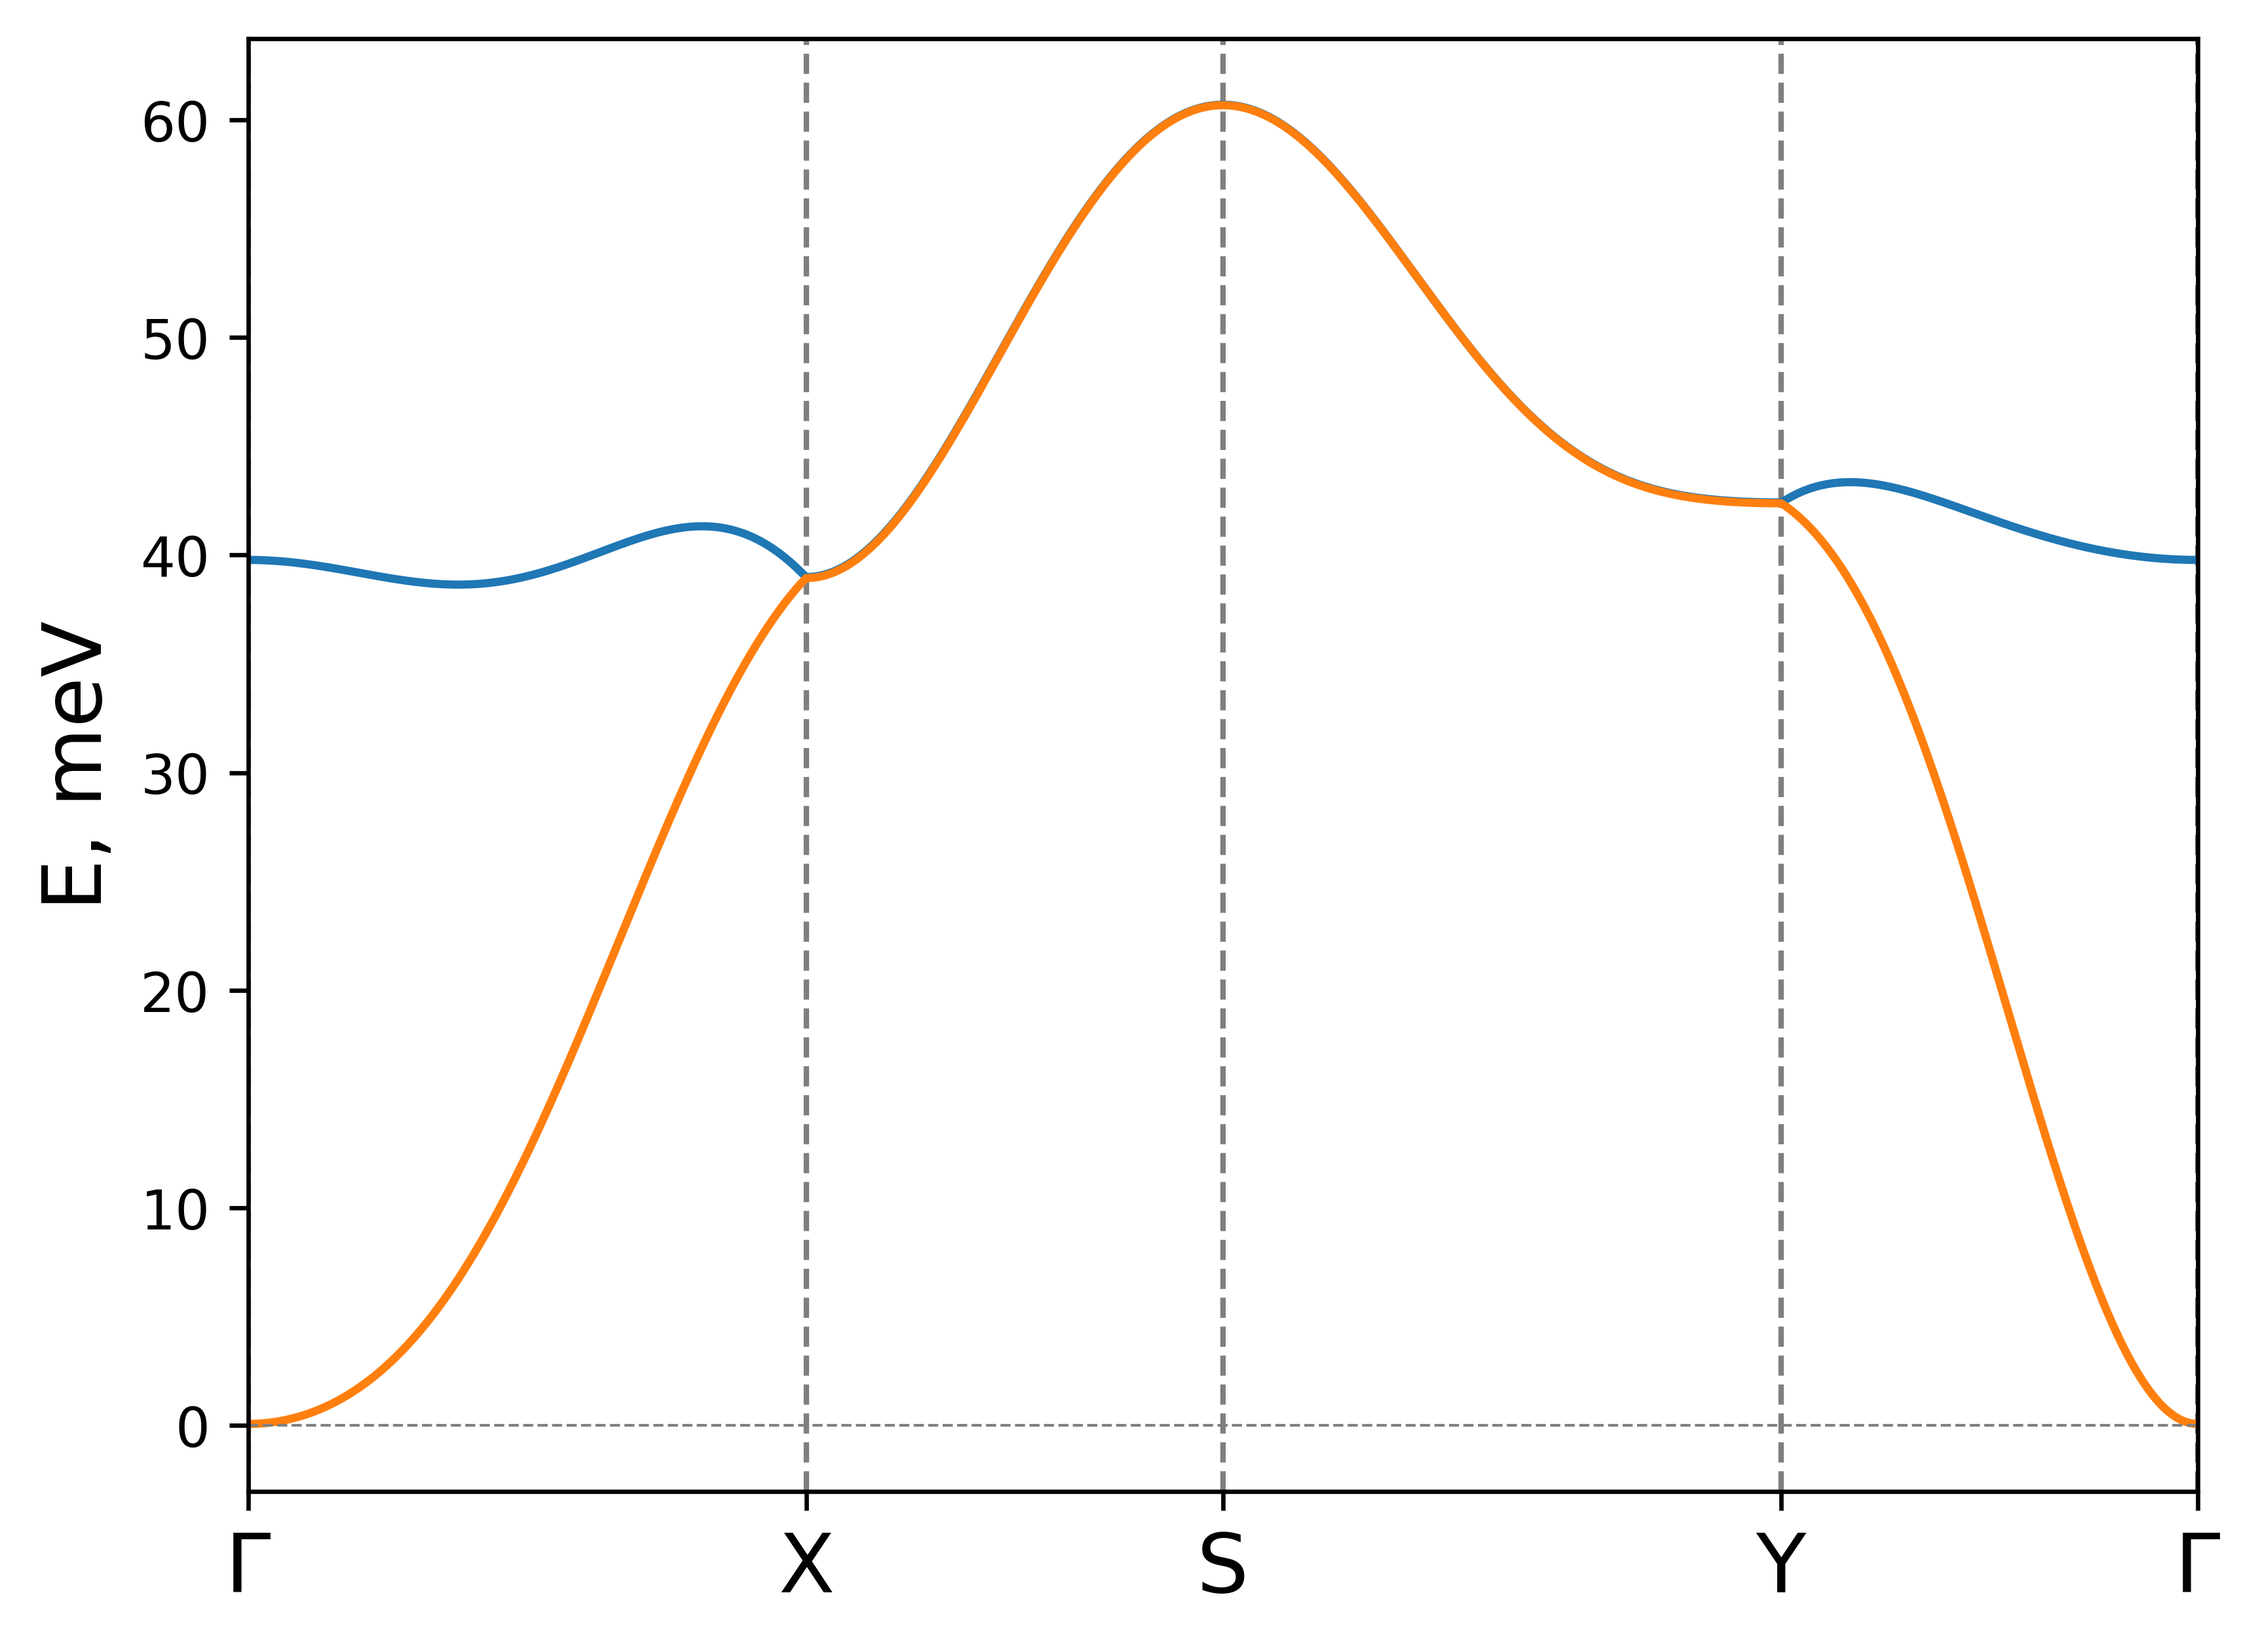
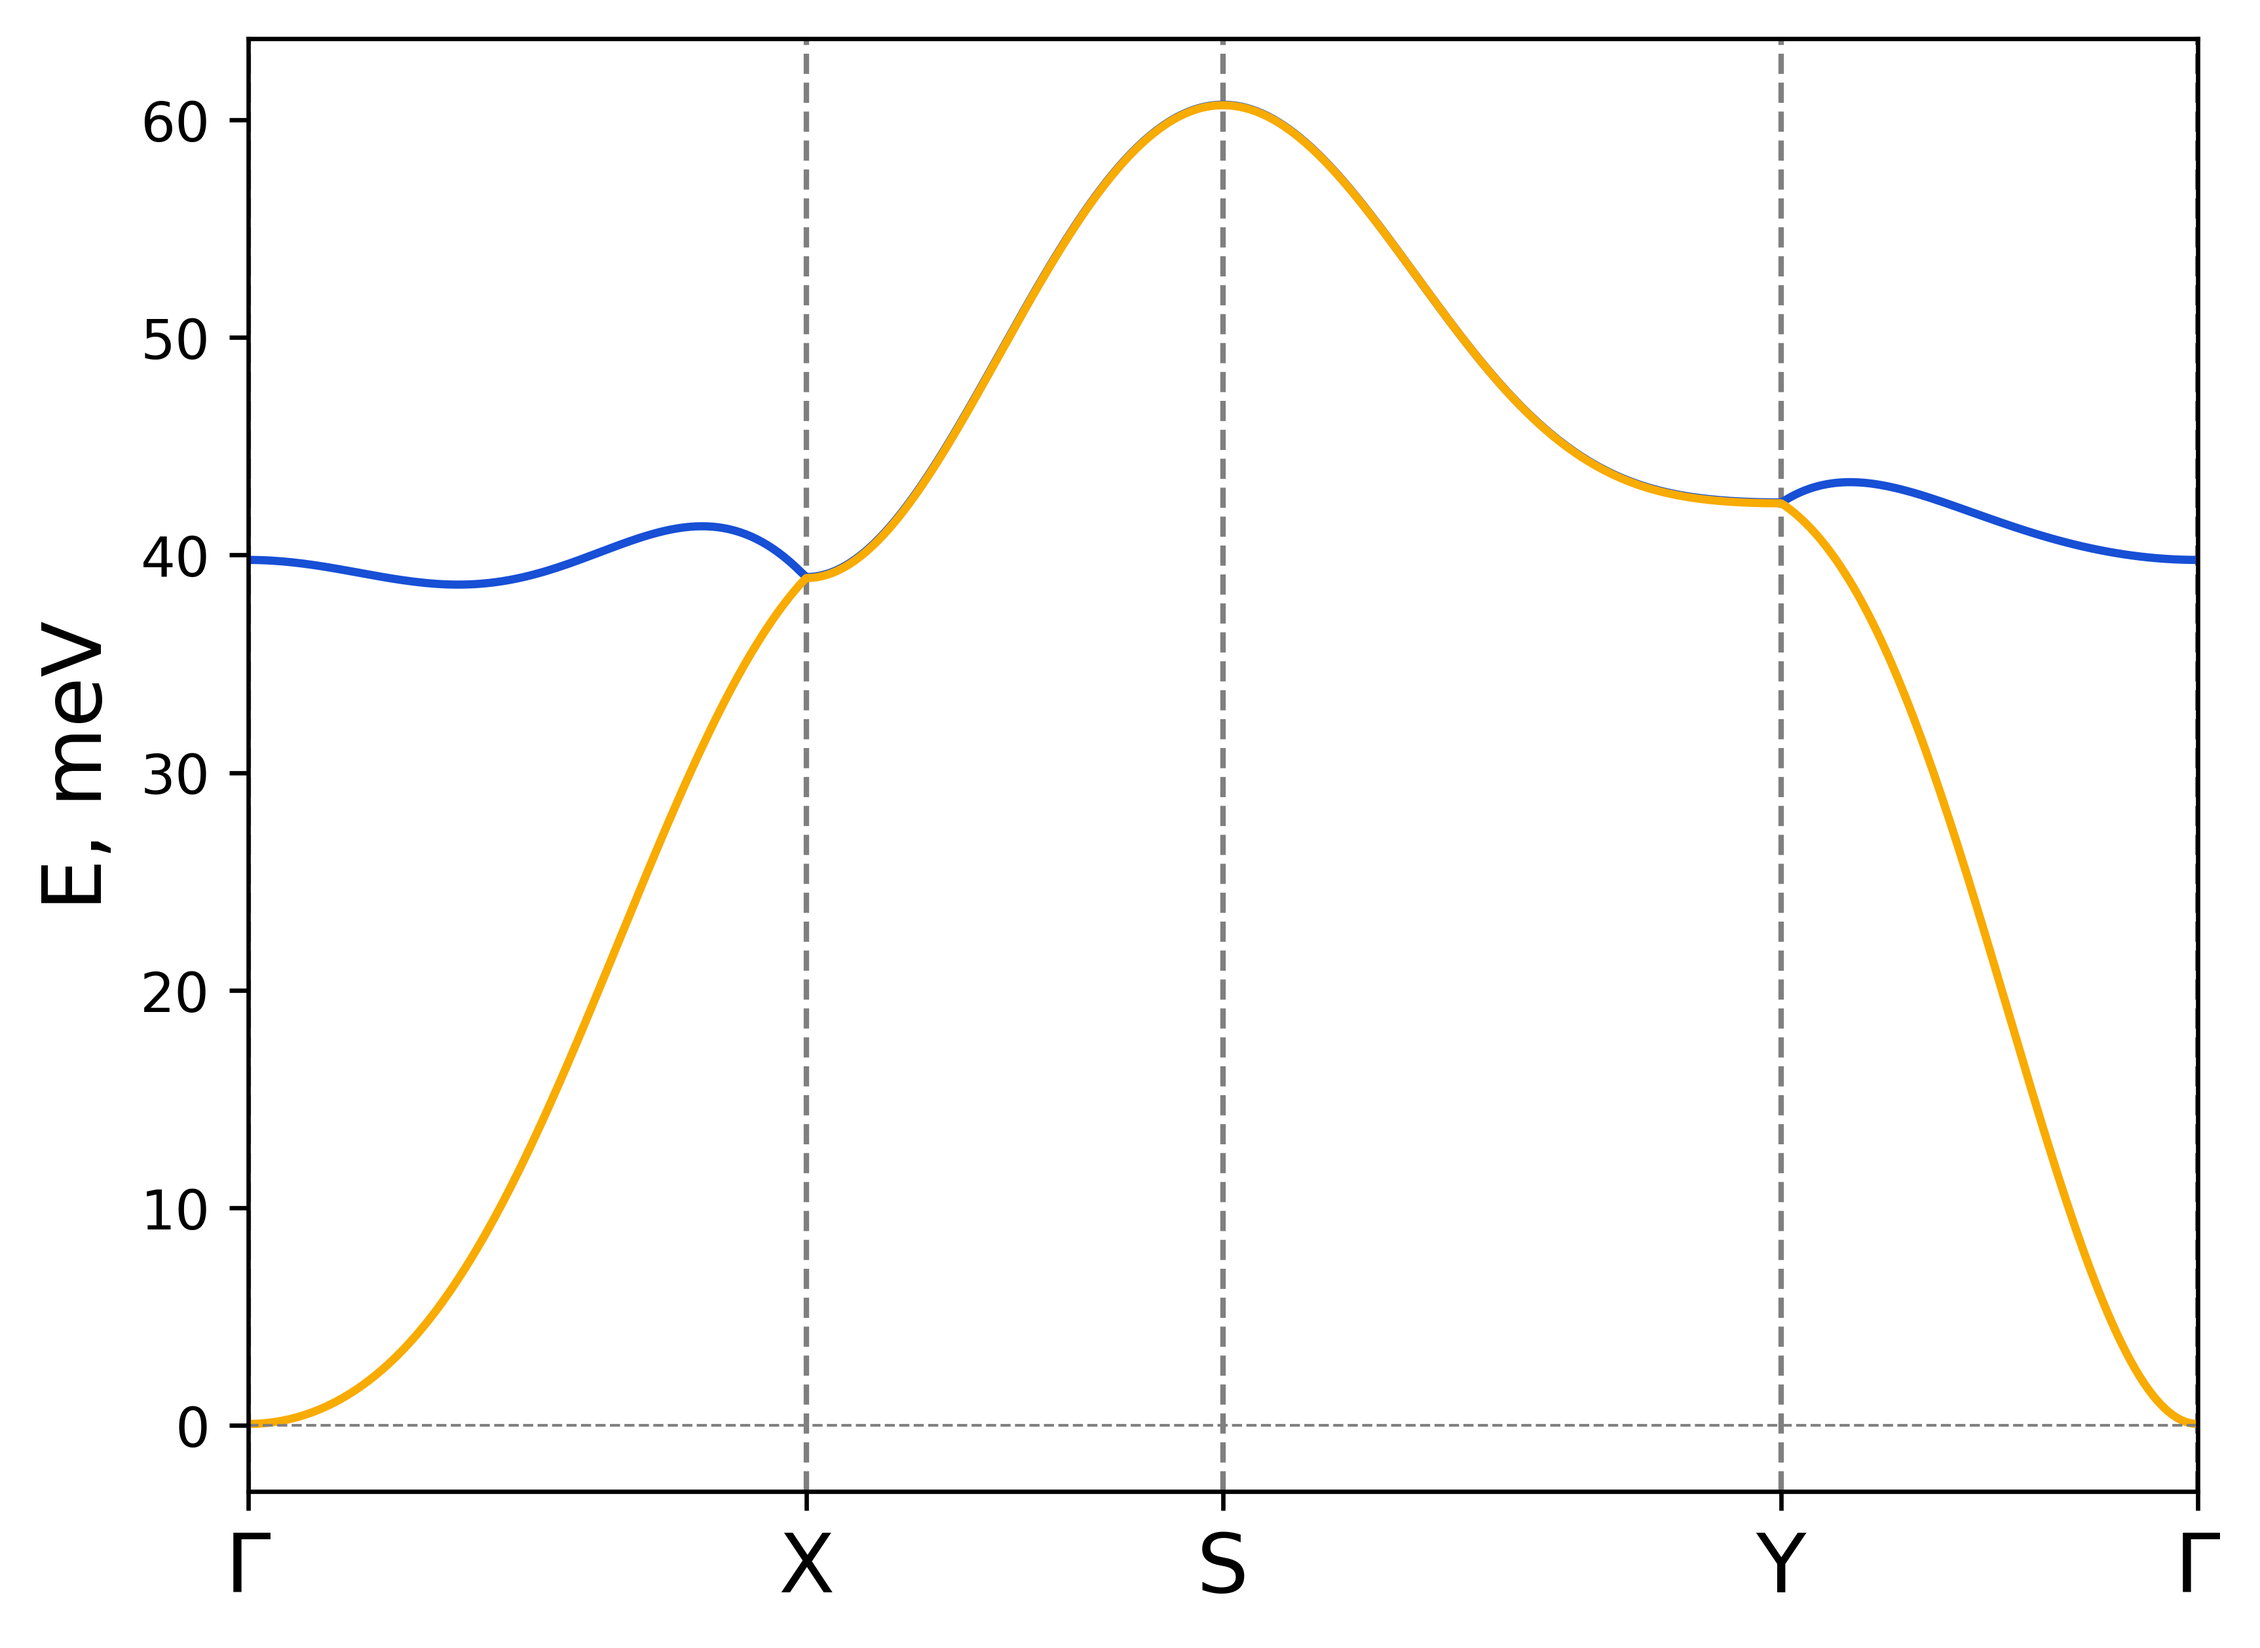
Add custom hs k-pointsto the magnon script

diff --git a/radtools/score/plot_tb2j_magnons.py b/radtools/score/plot_tb2j_magnons.py
@@ -1,6 +1,6 @@
 # RAD-tools - program for spin Hamiltonian and magnons.
 # Copyright (C) 2022-2023  Andrey Rybakov
-# 
+#
 # e-mail: anry@uv.es, web: adrybakov.com
 #
 # This program is free software: you can redistribute it and/or modify
@@ -39,6 +39,7 @@ def manager(
     output_name="magnon_dispersion",
     spiral_vector=None,
     rotation_axis=None,
+    k_points=None,
     k_path=None,
     form_model=False,
     R_vector=None,
@@ -72,7 +73,7 @@ def manager(
         Spin of the atoms in the model.
 
         For each atom, which has at least one bond connected to it is necessary to specify
-        spin vector. The spin vector is specified in the form of atom`s name followed by
+        spin vector. The spin vector is specified in the form of atom's name followed by
         three numbers, separated by spaces.
         The numbers represent the x, y, and z components of the spin vector.
 
@@ -103,6 +104,14 @@ def manager(
         Console argument: ``-ra`` / ``--rotation-axis``
 
         Metavar: ("n_x", "n_y", "n_z")
+    k_points : list of str, optional
+        Additional high-symmetry k-points.
+
+        Coordinates are relative to the reciprocal cell.
+
+        Console argument: ``-kps`` / ``--k-points``
+
+        Metavar: "name label xrel yrel zrel ..."
     k_path : str, optional
         Path in reciprocal space for the magnon dispersion.
 
@@ -220,6 +229,17 @@ def manager(
 
     # Get k points of the spinham
     kp = spinham.kpoints
+
+    # Add additional points
+    if k_points is not None:
+        for i in range(len(k_points) // 5):
+            point_name = k_points[5 * i]
+            point_label = k_points[5 * i + 1]
+            point_coordinates = list(map(float, k_points[5 * i + 2 : 5 * i + 5]))
+            kp.add_hs_point(
+                name=point_name, coordinates=point_coordinates, label=point_label
+            )
+
     # Set custom k path
     if k_path is not None:
         kp.path = k_path
@@ -279,8 +299,11 @@ def manager(
         lw=1,
         ls="dashed",
     )
+    colors = ["#174FD5", "#F8AB00", "#0CE1A2", "#FF003C", "#46EC00", "#9823C9"]
+    i = 0
     for omega in omegas:
-        ax.plot(kp.flatten_points(), omega)
+        ax.plot(kp.flatten_points(), omega, color=colors[i % len(colors)])
+        i += 1
 
     ax.set_xlim(kp.flatten_points()[0], kp.flatten_points()[-1])
     plot_hlines(ax, [0])
@@ -492,6 +515,15 @@ def create_parser():
         type=float,
         nargs=3,
         help="Direction of global rotation axis. In absolute coordinates in real space.",
+    )
+    parser.add_argument(
+        "-kps",
+        "--k-points",
+        default=None,
+        metavar="K $\mathrm{K_1}$ 0 0.5 0",
+        type=str,
+        nargs="*",
+        help="Additional high-symmetry k-points.",
     )
     parser.add_argument(
         "-kp",

diff --git a/docs/source/user-guide/scripts/rad-plot-tb2j-magnons.rst b/docs/source/user-guide/scripts/rad-plot-tb2j-magnons.rst
@@ -30,22 +30,66 @@ Ground state is defined by two sets of parameters:
 
     .. code-block::
 
-        -s Cr1 0 0 1 Cr2 0 0 1
+        -s Cr1 0 0 1.5 Cr2 0 0 1.5
 
 
 * Spin-spiral vector. (single-Q incommensurate structure).
     Spin spiral is defined by two parameters, each parameter is a vector: 
 
-    * :math:`\vec{Q}` (:ref:`rad-plot-tb2j-magnons_spiral-vector`)
-        It is relative to the model reciprocal cell.
+    * :math:`\boldsymbol{\vec{Q}}` (:ref:`rad-plot-tb2j-magnons_spiral-vector`)
+        It is relative to the reciprocal cell.
 
-    * Global rotation axis :math:`\vec{n}` (:ref:`rad-plot-tb2j-magnons_rotation-axis`)
+    * Global rotation axis :math:`\boldsymbol{\vec{n}}` (:ref:`rad-plot-tb2j-magnons_rotation-axis`)
         It is given in absolute coordinate in a real space. Only the direction of the vector matters.
 
 In the input file "exchange.out" six atoms are present: Br1, Cr1, S1, Br2, Cr2, S2.
 Only Cr1 and Cr2 have exchange interaction between them. Therefore, it is necessary to specify
 spin vectors for Cr1 and Cr2. You can specify spin vectors for all atoms, but it is not
 necessary.
+
+.. _rad-plot-tb2j-magnons_custom-k-points:
+
+Custom k-points
+===============
+
+By default you can use predefined k-points based on the high symmetry points for each 
+:ref:`Bravais lattice <library_bravais-lattices>`. However, you can specify your own
+high symmetry points using :ref:`rad-plot-tb2j-magnons_k-points` argument:
+
+.. code-block:: bash
+
+    rad-plot-tb2j-magnons.py -if exchange.out -kps X1 "$\mathrm{X_1}$" -0.5 0 0 Y1 "$\mathrm{Y_1}$" 0 -0.5 0 -kp X1-G-Y1 -s Cr1 0 0 1.5 Cr2 0 0 1.5 -on CrSBr-custom-kpoints
+
+.. figure:: ../../../examples/rad-plot-tb2j-magnons/CrSBr-custom-kpoints.png
+    :target: ../../../_images/CrSBr-custom-kpoints.png
+    :align: center
+
+The syntax is the following:
+
+.. code-block:: text
+
+    -kps <name1> <label1> <kx1> <ky1> <kz1> <name2> <label2> <kx2> <ky2> <kz2> ...
+
+where:
+
+* <name> is the name of the k-point
+    It can be used in the :ref:`rad-plot-tb2j-magnons_k-path` argument.
+
+    .. note:: 
+        
+        If an error like:
+
+        .. code-block:: text
+
+            ValueError: Point 'X' already defined.
+        
+        appears, then you need to use different name for the k-points, because 
+        the name "X" is already used. Only the name is checked for uniqueness. Therefore,
+        you can provide the same label for different k-points or custom label for one of the predefined
+        k-points.
+* <label> is the label of the k-point
+    This string is directly passed to the plot. You can use |latex|_ syntax here.
+* <kx> <ky> <kz> are the coordinates of the k-point relative to the reciprocal cell.
 
 Template file
 =============
@@ -71,10 +115,10 @@ Control of parameters
 You can "turn off" parts of the full exchange matrix:
 
 * :ref:`--nodmi <rad-plot-tb2j-magnons_nodmi>`
-    Ignore DMI in the spinham.
+    Ignore :ref:`DMI <guide_spinham_parameter_dmi>` in the spinham.
 
 * :ref:`-noa/--no-anisotropic <rad-plot-tb2j-magnons_no-anisotropic>`
-    Ignore anisotropic symmetric exchange in the spinham.
+    Ignore :ref:`anisotropic symmetric exchange <guide_spinham_parameter_aniso>` in the spinham.
 
 Examples
 ========
@@ -141,7 +185,7 @@ Relative or absolute path to the "exchange.out" file, including the name and ext
 Spin of the atoms in the model.
 
 For each atom, which has at least one bond connected to it is necessary to specify
-spin vector. The spin vector is specified in the form of atom`s name followed by
+spin vector. The spin vector is specified in the form of atom's name followed by
 three numbers, separated by spaces.
 The numbers represent the x, y, and z components of the spin vector.
 
@@ -197,6 +241,20 @@ Direction of global rotation axis. In absolute coordinates in real space.
 
     optional
     type: list of 3 float
+
+
+.. _rad-plot-tb2j-magnons_k-points:
+
+-kps, --k-points
+----------------
+Additional high-symmetry k-points.
+
+Coordinates are relative to the reciprocal cell.
+
+.. code-block:: text
+
+    optional
+    type: list of str
 
 
 .. _rad-plot-tb2j-magnons_k-path:

diff --git a/docs/source/user-guide/module/spinham/parameter.rst b/docs/source/user-guide/module/spinham/parameter.rst
@@ -14,17 +14,23 @@ of predefined properties, which are specific for the exchange parameter.
 The full exchange parameter :math:`\boldsymbol{J}` is a :math:`3\times3` matrix 
 of real numbers. It is usually separated into three parts: 
 
+.. _guide_spinham_parameter_iso:
+
 * Isotropic (Heisenberg) exchange (:py:attr:`.iso`):
 
 .. math::
 
     J_{iso} = \dfrac{\text{tr}(\boldsymbol{J})}{3}
 
+.. _guide_spinham_parameter_aniso:
+
 * Symmetric anisotropic exchange (:py:attr:`.aniso`):
 
 .. math::
 
     \mathbf{J}_{aniso} = \boldsymbol{J}_{symm} = \dfrac{\boldsymbol{J} + \boldsymbol{J}^T}{2} - \dfrac{1}{3}\text{tr}(\boldsymbol{J})\cdot\mathbf{I}
+
+.. _guide_spinham_parameter_dmi:
 
 * Antisymmetric anisotropic (Dzyaloshinskii-Moriya) exchange (:py:attr:`.dmi`):
 

diff --git a/docs/source/release-notes/0.8.rst b/docs/source/release-notes/0.8.rst
@@ -133,3 +133,9 @@ It was causing the problems when saving outputs on the windows platform.
 -----
 
 Add utf-8 to the one forgotten place. It is advised to skip 0.8.7 and install 0.8.8 instead.
+
+0.8.9
+-----
+
+Add :ref:`custom k-points <rad-plot-tb2j-magnons_custom-k-points>` to the :ref:`rad-plot-tb2j-magnons` script.
+Change default colors for the magnon dispersion plots.
